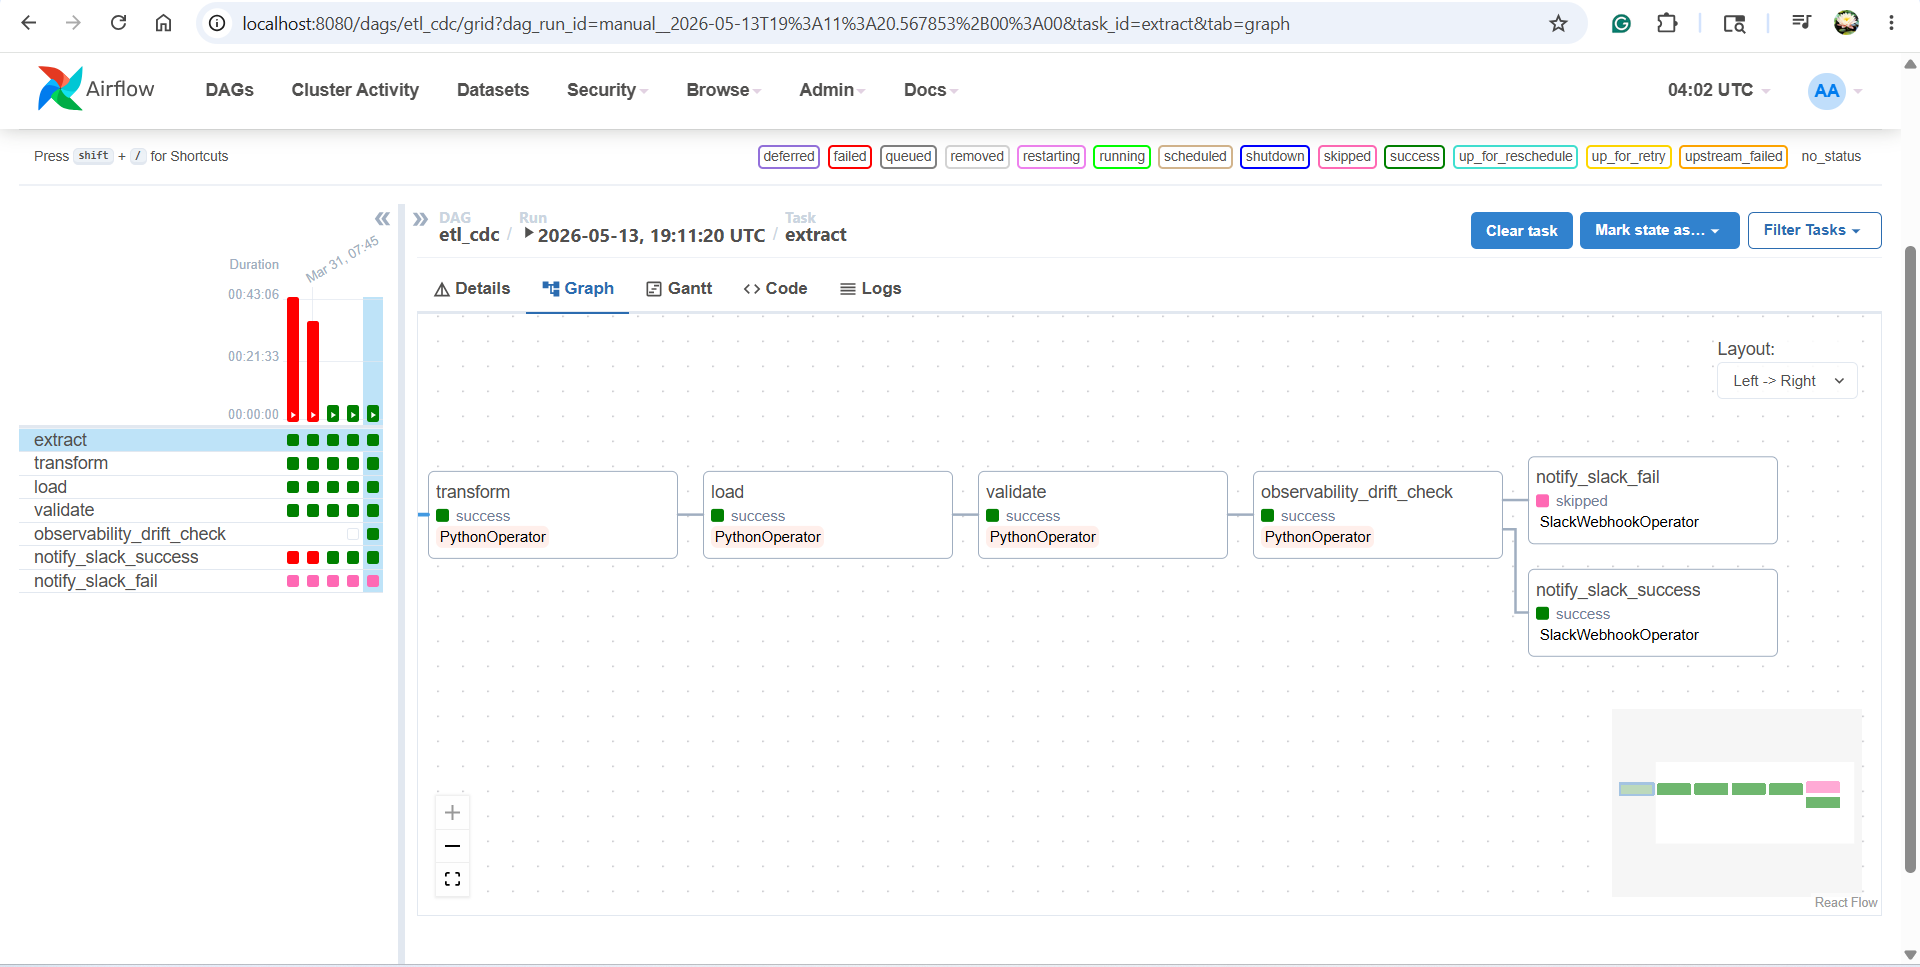
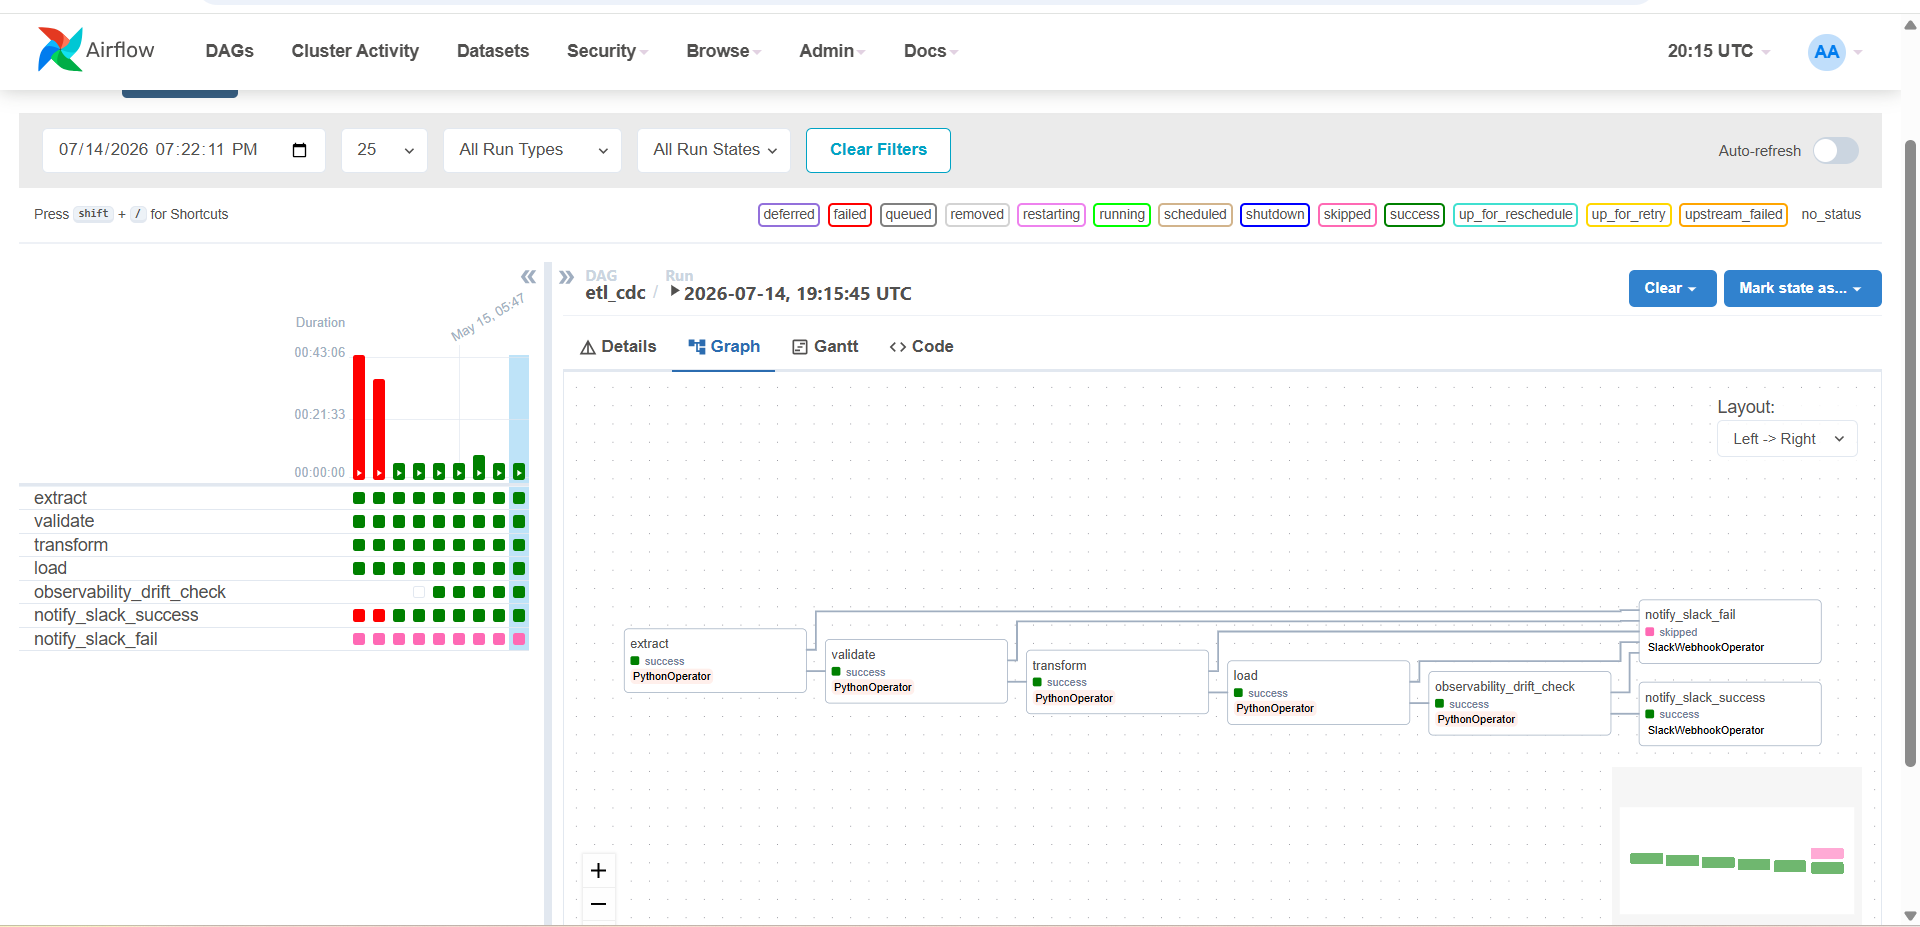
update readme screeshot link

diff --git a/README.md b/README.md
@@ -59,7 +59,7 @@ Demonstrates a classic, local ETL workflow using Airflow, Pandas, Postgres, and 
 
 Dataset: Three CDC CSVs contain chronic disease, heart disease, and nutrition metrics, serving as a baseline for all subsequent phases. Automated CI testing is implemented with GitHub Actions, executing the full Pytest suite on each push to validate ETL functionality and data quality.
 
-#### Flow chart: data.gov → E (local) → T (Pandas) → L (Postgres) → Validate (GX/Soda) → DAG -> Slack/Email notifications
+#### Flow chart: data.gov → E (local) → Validate (GX/Soda) -> T (Pandas) → L (Postgres) → DAG -> Slack/Email notifications
 
 ![Phase I Pandas ETL with Airflow ](https://github.com/masabai/aws-center-disease-etl/raw/stable/phase1-pandas-dag/pandas_airflow_screenshots/etl_dag_graph.png)
 